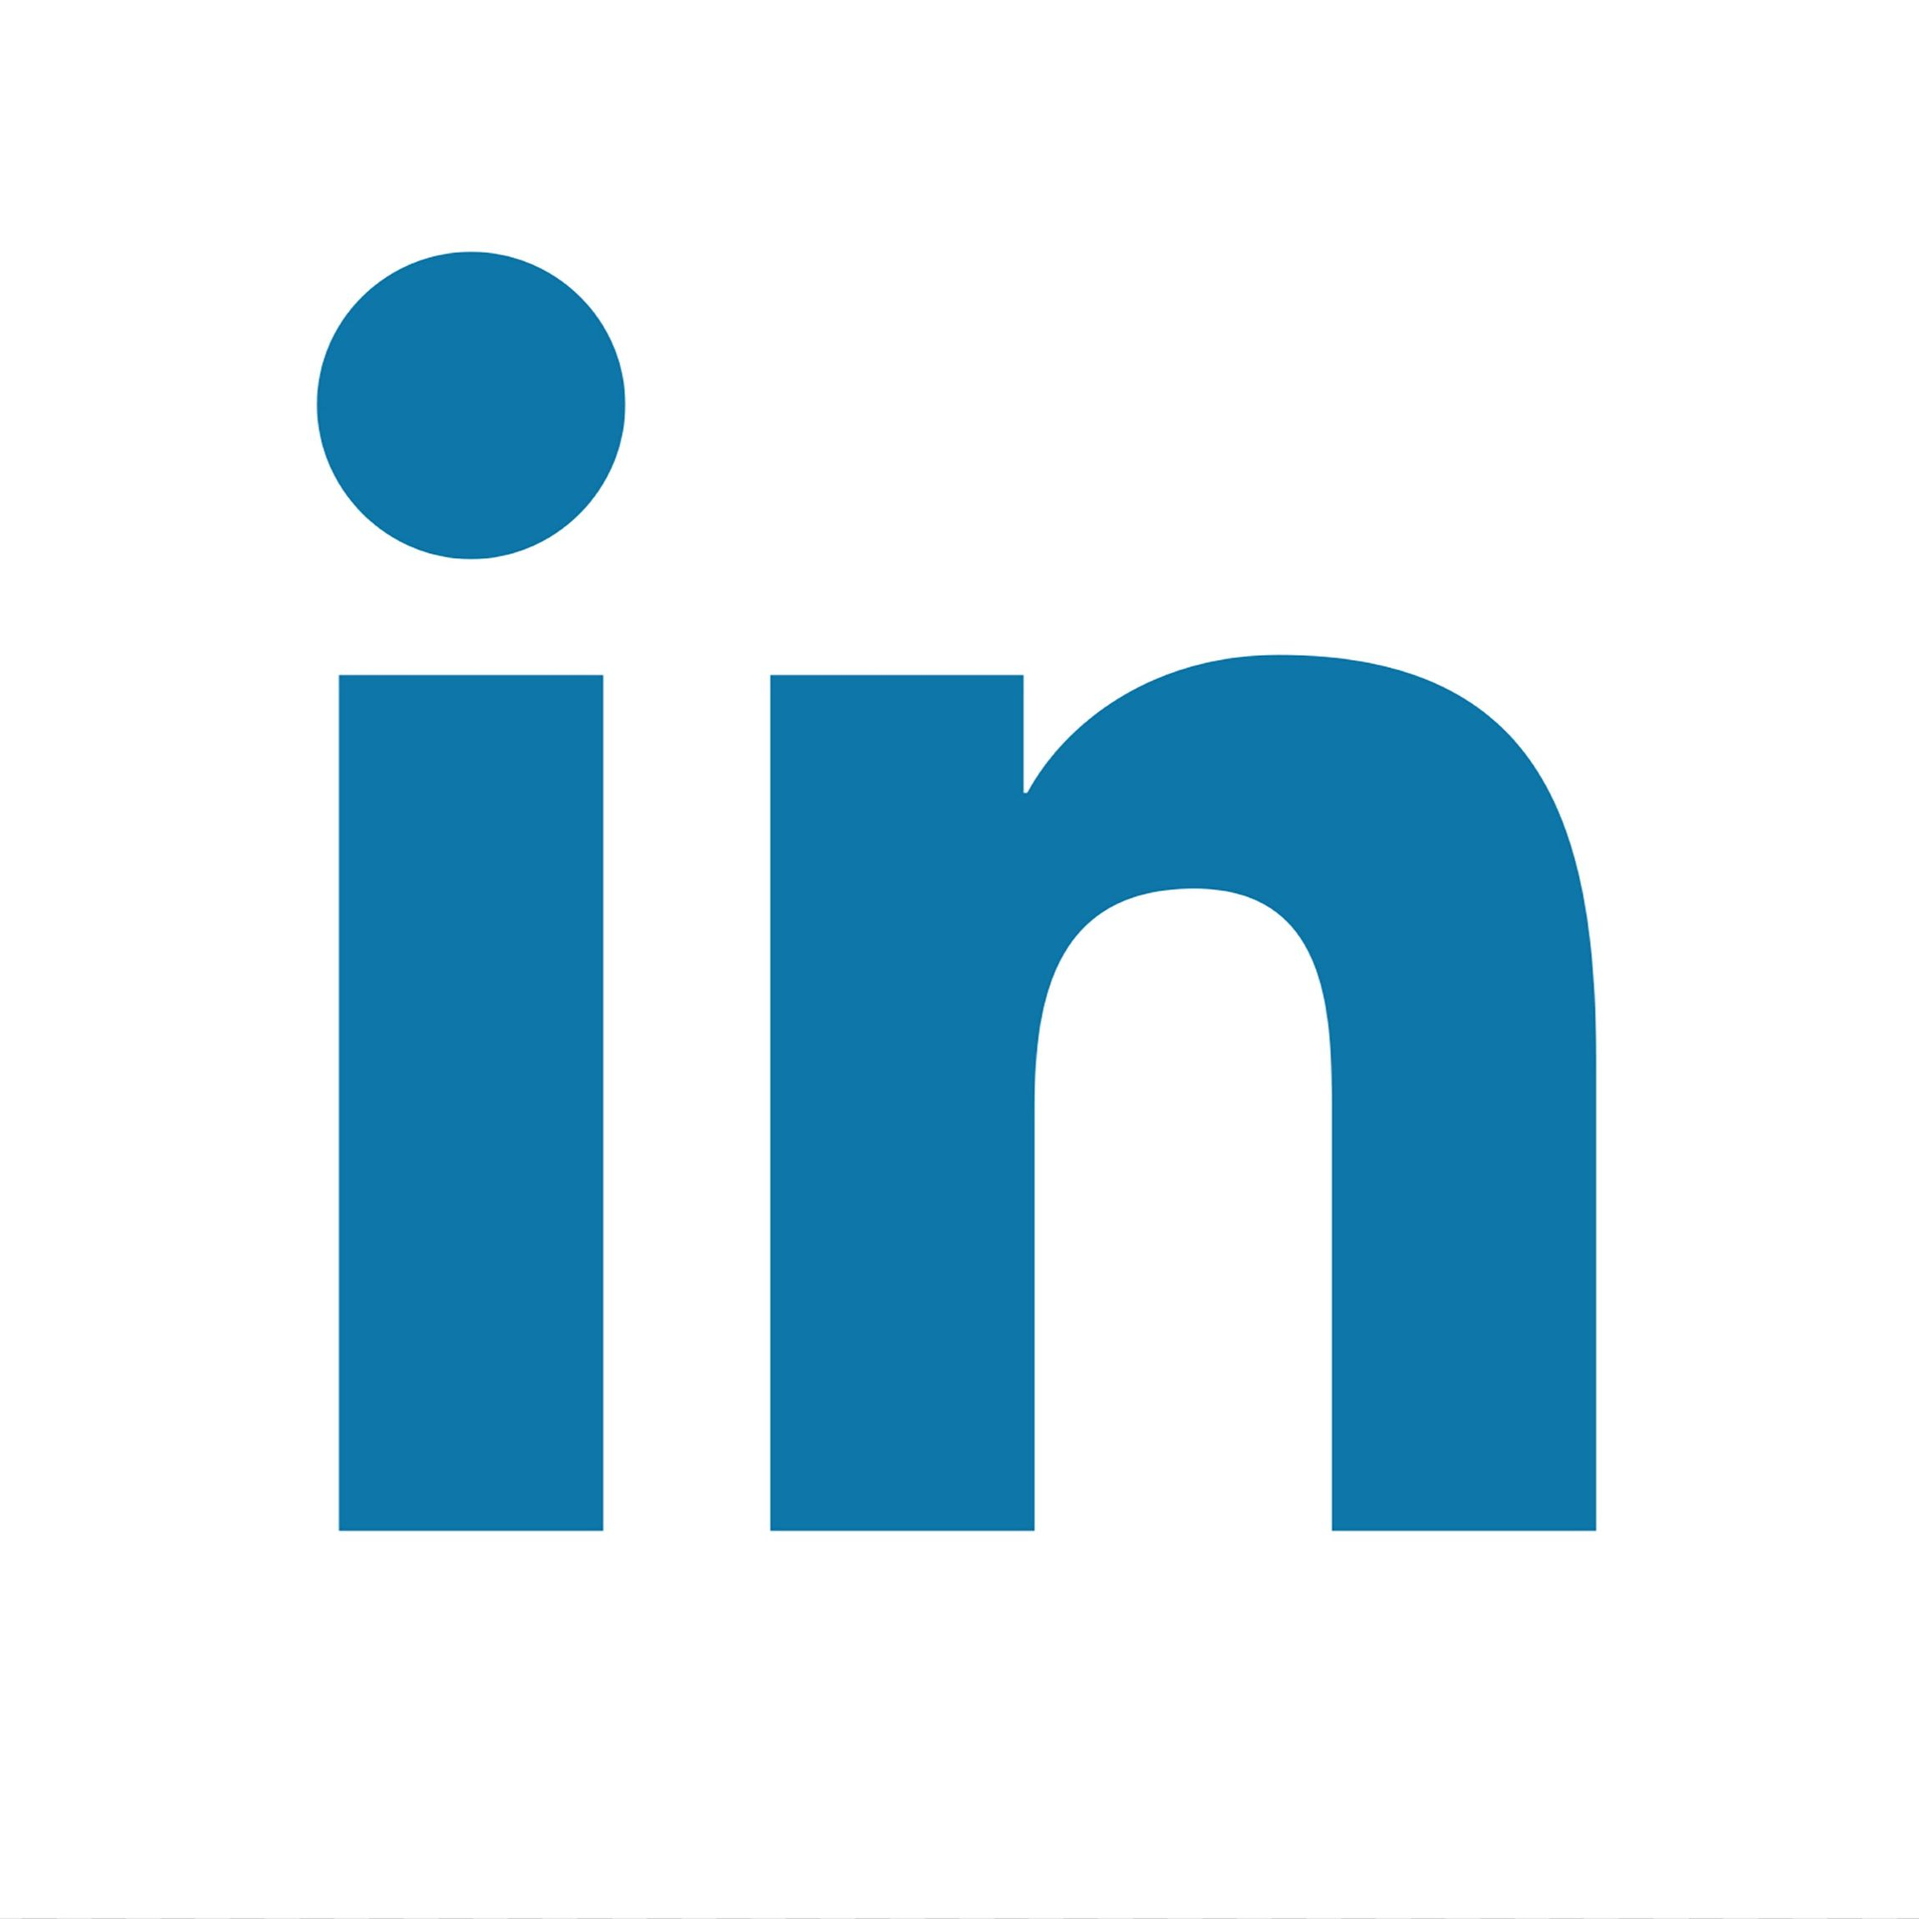
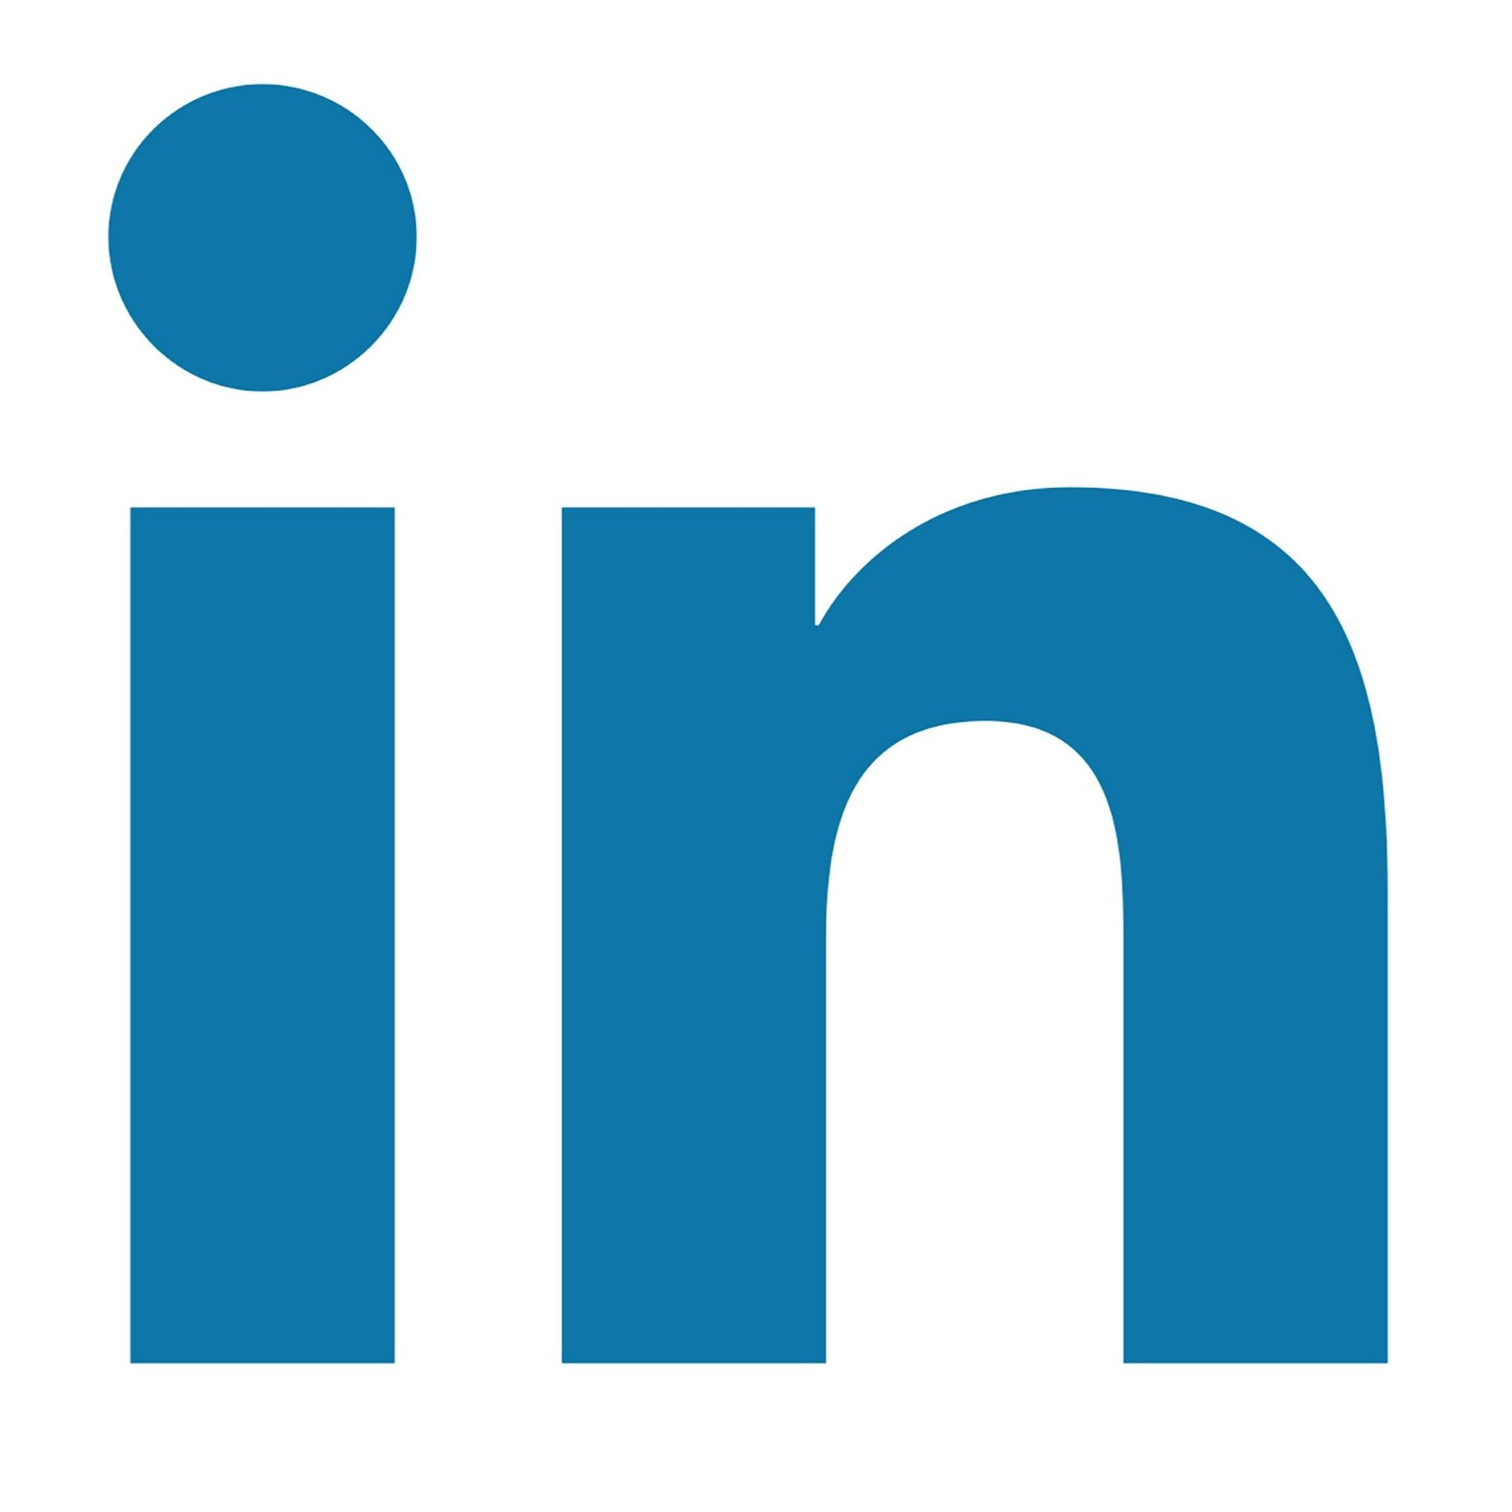
W03 Final audit update hopefully

Changed region(s): [[0.0618, 0.0309, 0.34, 0.9272], [0.3709, 0.3091, 0.9272, 0.9272]]

diff --git a/wwr/styles/rafting.css b/wwr/styles/rafting.css
@@ -102,5 +102,5 @@ footer {
 }
 
 .socialmedia img {
-    max-width: 3rem;
+    max-width: 2rem;
 }
